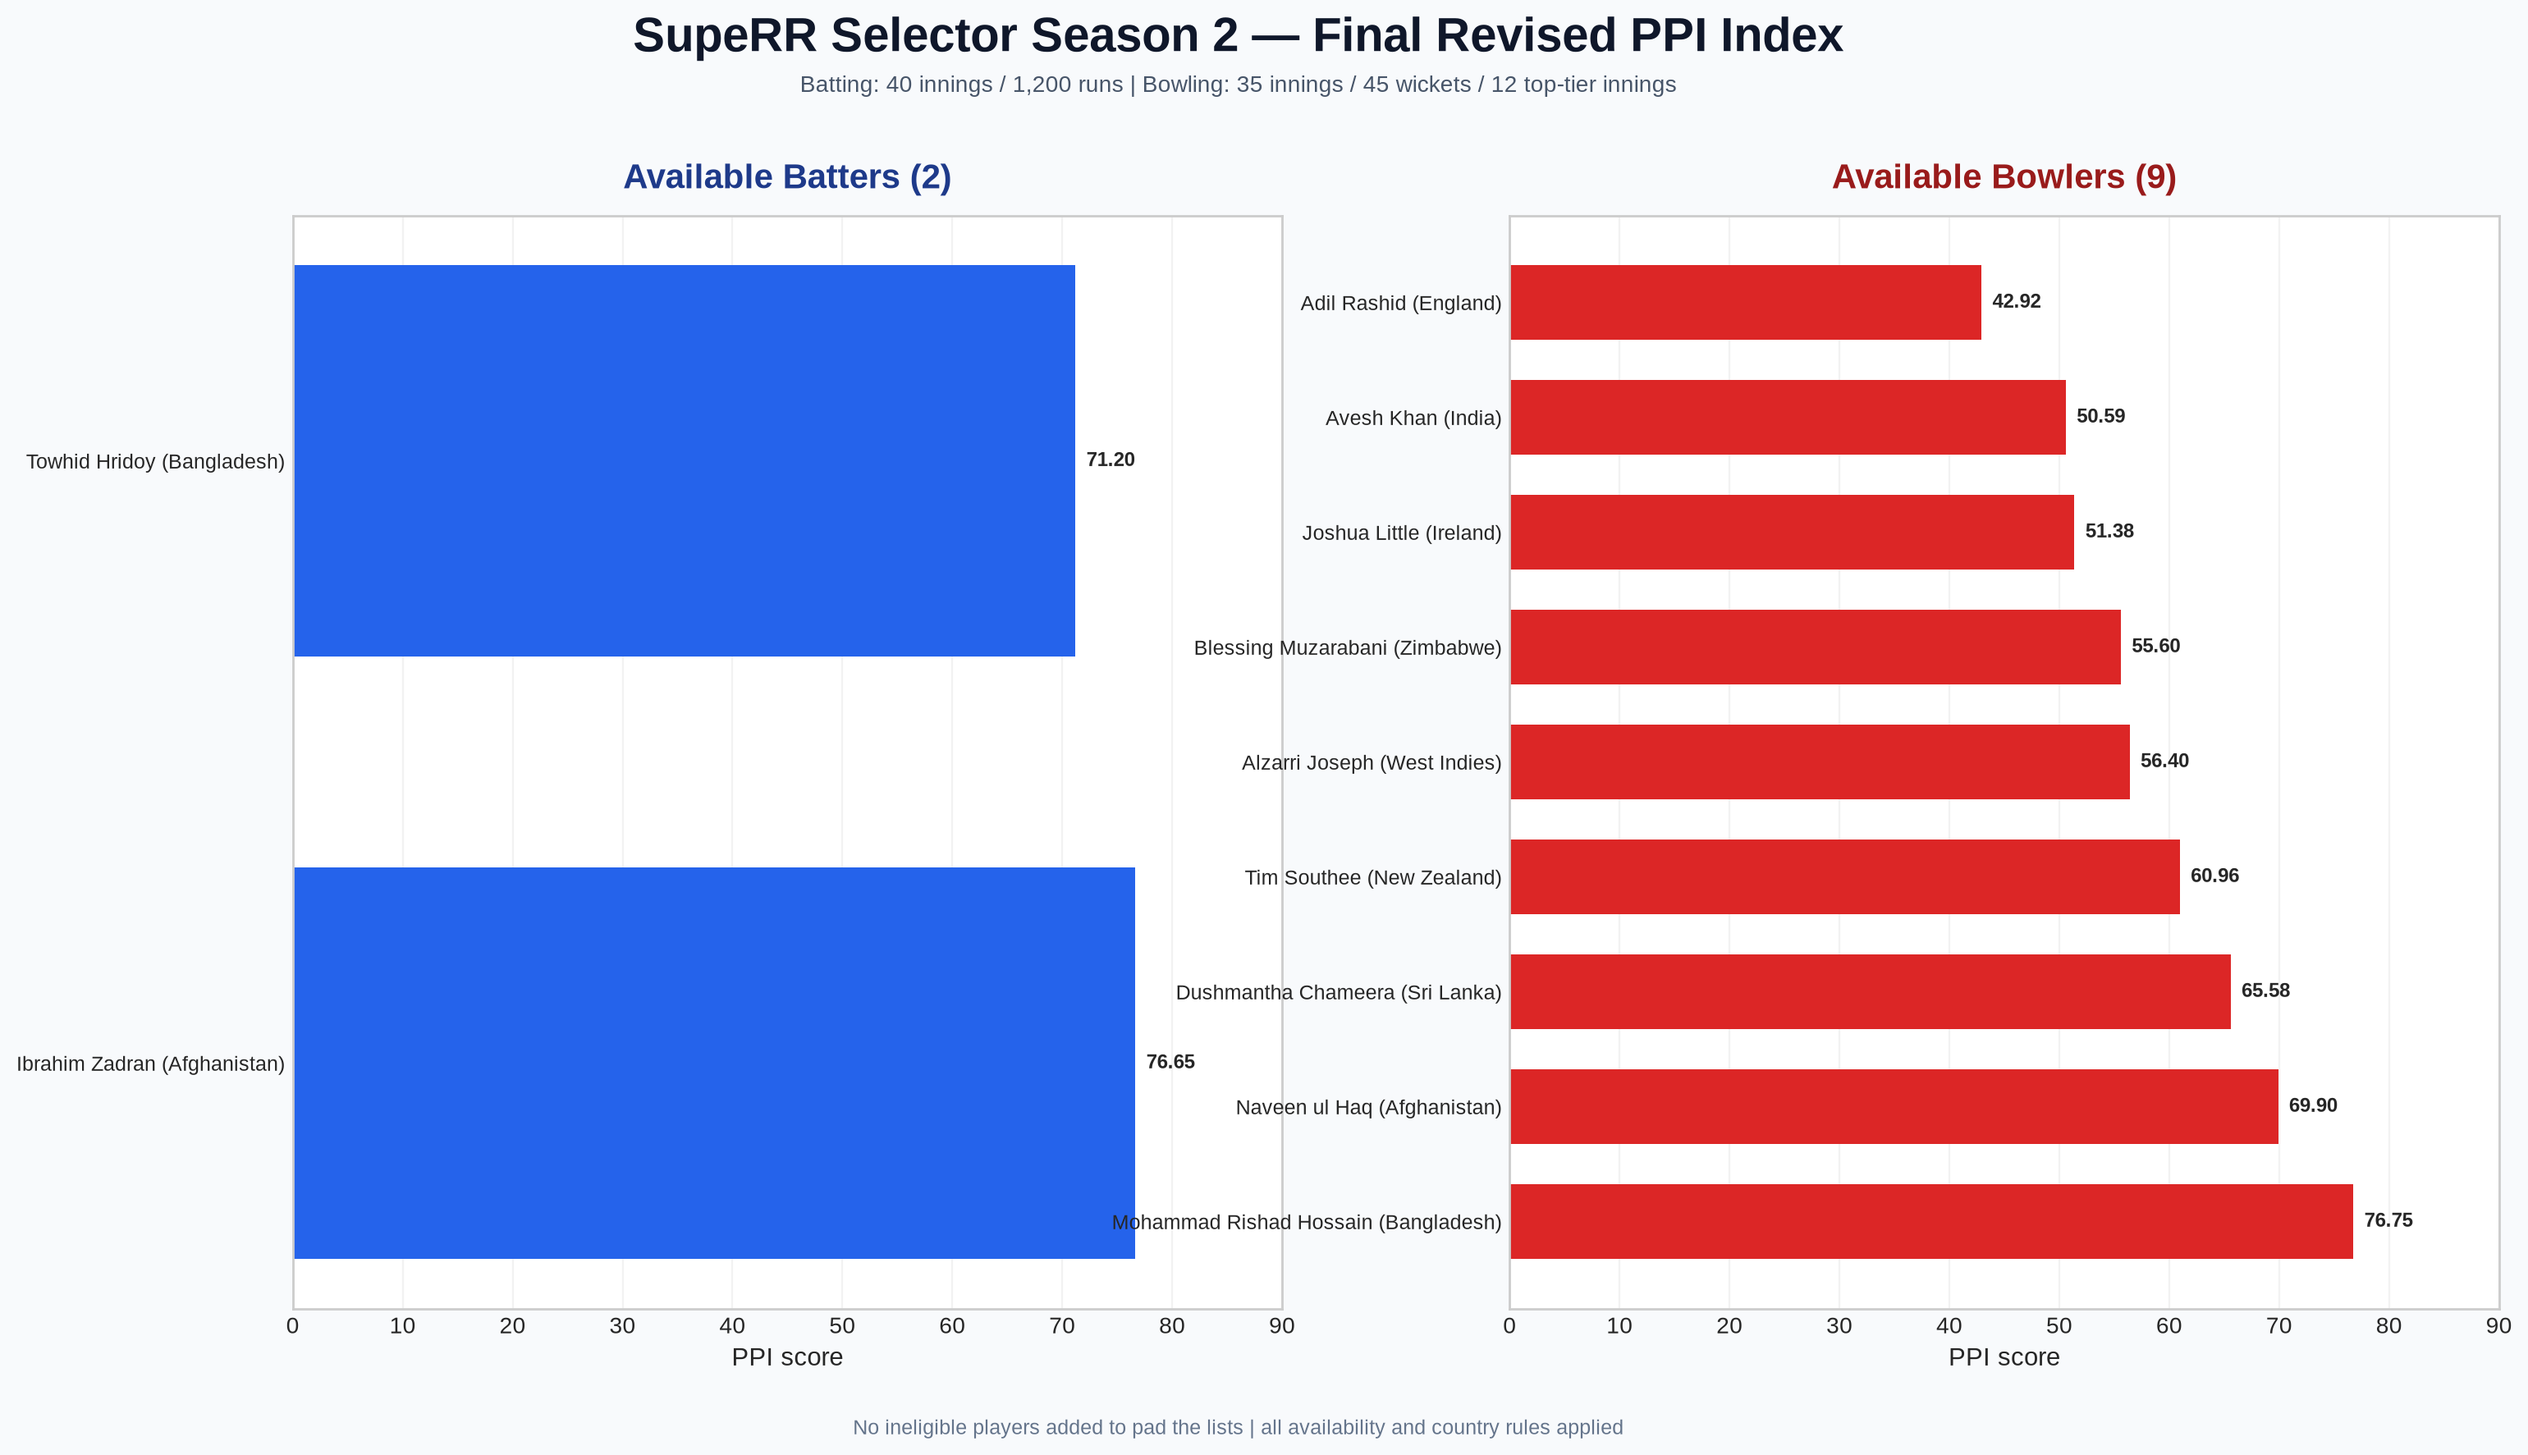
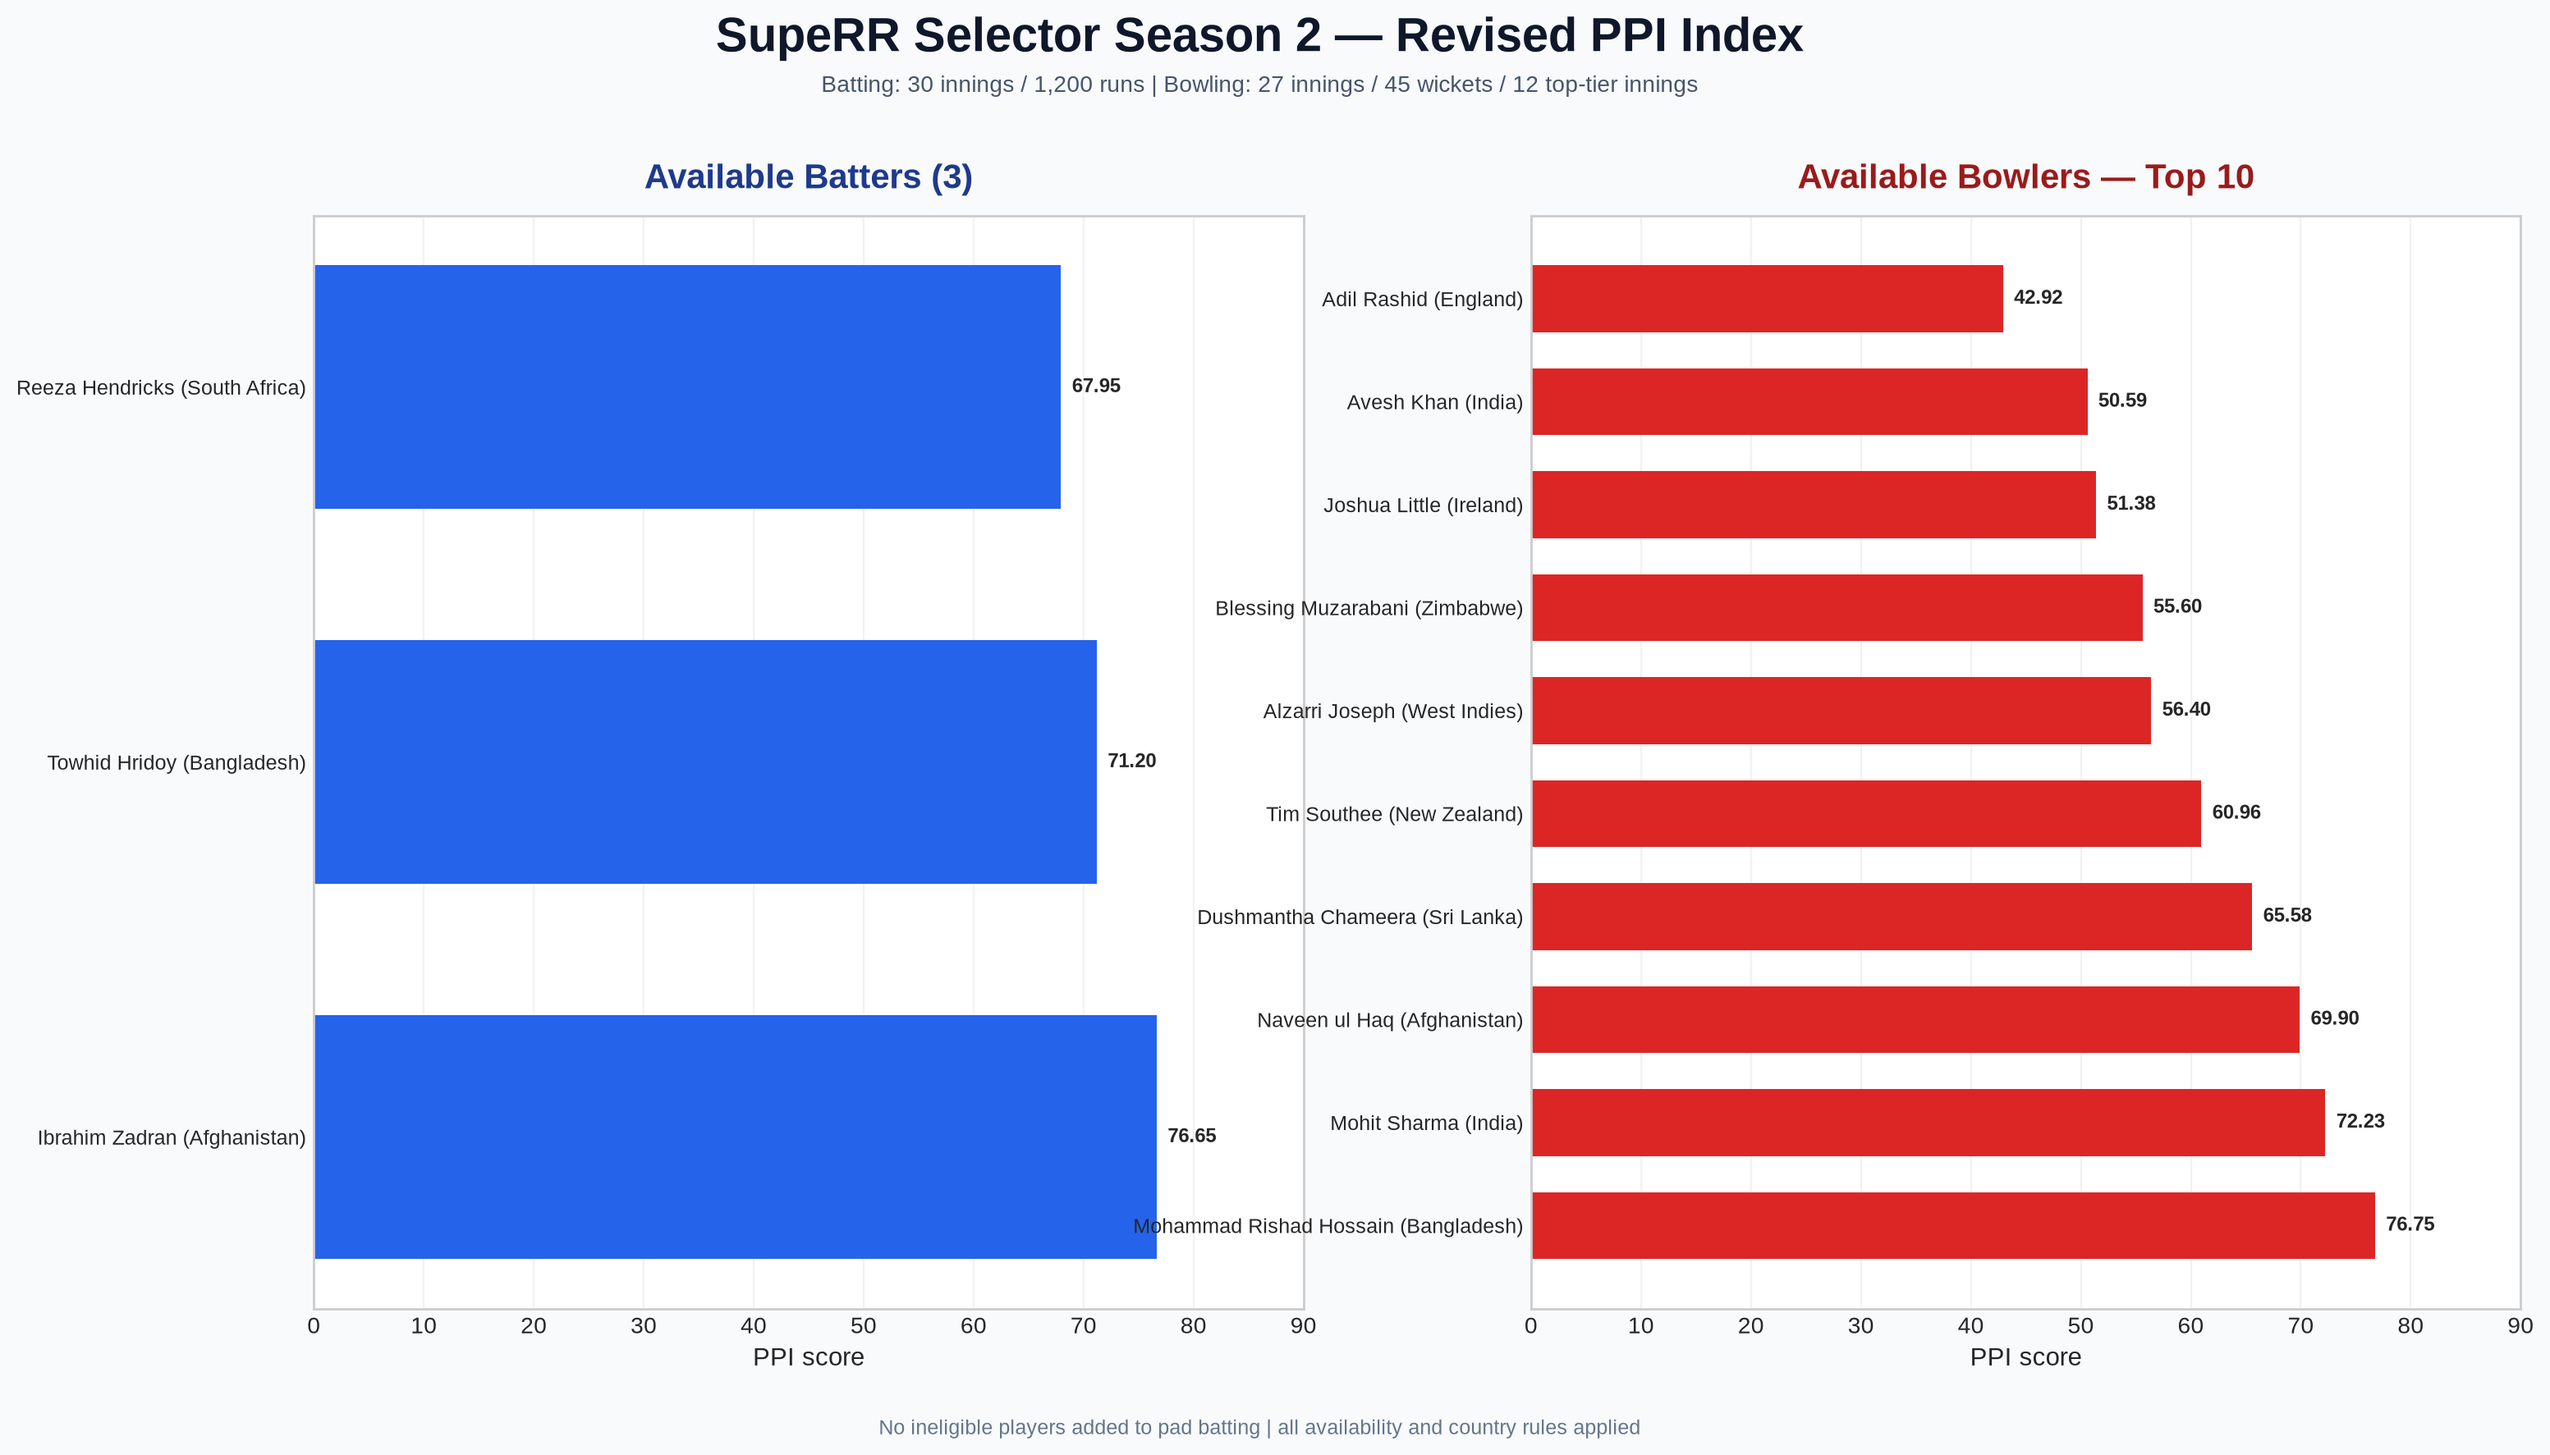
Lower PPI innings eligibility thresholds

diff --git a/scripts/post_retention_ppi.py b/scripts/post_retention_ppi.py
@@ -82,12 +82,12 @@ MANUAL_BOWLER_EXCLUSIONS = {
 
 POST_RETENTION_MIN_PRESSURE_BALLS = 5
 POST_RETENTION_MIN_PRESSURE_MATCHES = 1
-BAT_MIN_INNINGS = 40
+BAT_MIN_INNINGS = 30
 BAT_MIN_RUNS = 1200
 BAT_MIN_BALLS = 0
 BAT_MIN_STRIKE_RATE = 0
 BAT_MIN_TOP_TIER_INNINGS = 0
-BOWL_MIN_INNINGS = 35
+BOWL_MIN_INNINGS = 27
 BOWL_MIN_BALLS = 0
 BOWL_MIN_WICKETS = 45
 BOWL_MIN_TOP_TIER_INNINGS = 12
@@ -219,7 +219,7 @@ def build_eligibility(input_dir: Path, bat: pd.DataFrame, bowl: pd.DataFrame, ou
     bat_a["pass_top_tier"] = bat_a.top_tier_innings >= BAT_MIN_TOP_TIER_INNINGS
     bat_a["eligible_batting"] = bat_a[["pass_innings", "pass_runs"]].all(axis=1)
     bat_a["failed_batting_rules"] = bat_a.apply(lambda r: "; ".join([
-        "innings<40" if not r.pass_innings else "", "runs<1200" if not r.pass_runs else "",
+        "innings<30" if not r.pass_innings else "", "runs<1200" if not r.pass_runs else "",
         "top_tier_innings<15" if not r.pass_top_tier else ""]), axis=1).str.strip("; ").str.replace("; ;", ";", regex=False)
     bowl_a["pass_innings"] = bowl_a.total_innings_bowled >= BOWL_MIN_INNINGS
     bowl_a["pass_balls"] = bowl_a.total_balls_bowled >= BOWL_MIN_BALLS
@@ -227,7 +227,7 @@ def build_eligibility(input_dir: Path, bat: pd.DataFrame, bowl: pd.DataFrame, ou
     bowl_a["pass_top_tier"] = bowl_a.top_tier_innings >= BOWL_MIN_TOP_TIER_INNINGS
     bowl_a["eligible_bowling"] = bowl_a[["pass_innings", "pass_wickets", "pass_top_tier"]].all(axis=1)
     bowl_a["failed_bowling_rules"] = bowl_a.apply(lambda r: "; ".join([
-        "innings<35" if not r.pass_innings else "", "balls<660" if not r.pass_balls else "",
+        "innings<27" if not r.pass_innings else "", "balls<660" if not r.pass_balls else "",
         "wickets<45" if not r.pass_wickets else "", "top_tier_innings<12" if not r.pass_top_tier else ""]), axis=1).str.strip("; ").str.replace("; ;", ";", regex=False)
     output_dir.mkdir(parents=True, exist_ok=True)
     bat_a.to_csv(output_dir / "batting_eligibility_audit.csv", index=False)
@@ -276,7 +276,7 @@ def main() -> None:
         "Matthew Wade is also excluded because he is unlikely to play in the next IPL cycle.",
         "Mahendra Singh Dhoni is excluded as a CSK mentor, Rasikh Salam is excluded as retained by Royal Challengers Bengaluru, Namboori Tilak Varma is excluded as retained by Mumbai Indians, and Mitchell Starc is excluded because he opted out.",
         "",
-        "The same PPI formula is used. Batting eligibility requires exactly two filters: at least 40 innings and 1,200 runs. Bowling eligibility requires at least 35 innings, 45 wickets, and 12 top-tier innings; the 660-ball overs minimum has been removed. Each panel allows at most one player per non-India country and at most three Indian players; lower-exposure replacements are marked with lower confidence.",
+        "The same PPI formula is used. Batting eligibility requires exactly two filters: at least 30 innings and 1,200 runs. Bowling eligibility requires at least 27 innings, 45 wickets, and 12 top-tier innings; the 660-ball overs minimum has been removed. Each panel allows at most one player per non-India country and at most three Indian players; lower-exposure replacements are marked with lower confidence.",
         "",
         f"- Retained-player rows transcribed: {len(retention)}",
         f"- Expanded batting candidate pool before filter: {len(bat)}; removed: {len(bat_removed)}; available: {len(bat_avail)}",

diff --git a/outputs/post_retention/post_retention_ppi_index.md b/outputs/post_retention/post_retention_ppi_index.md
@@ -1,29 +1,27 @@
 # Post-retention PPI index
 
-**Status: Final revised filters applied.**
+**Status: Updated with revised innings thresholds.**
 
-## Batting filters
-- Minimum 40 innings
+## Active filters
+
+### Batting
+- Minimum 30 innings
 - Minimum 1,200 runs
 
-The strike-rate criterion, 800-balls-faced criterion, and batting top-tier-innings add-on have been removed.
-
-## Bowling filters
-- Minimum 35 bowling innings
+### Bowling
+- Minimum 27 bowling innings
 - Minimum 45 wickets
 - Minimum 12 IPL/T20I innings
 
-The 660 legal-ball/110-over minimum has been removed.
+The 800-ball, strike-rate, and batting top-tier add-ons are removed. The 660-ball/110-over bowling minimum is also removed.
 
 ## Final result
 
-- Available batters after all filters: **2**.
-- Available bowlers after all filters: **9**.
+- Available batters after all filters: **3**.
+- Available bowlers after all filters: **10**.
 - Tilak Varma is excluded as Mumbai Indians-retained.
 - Mitchell Starc is excluded because he opted out.
-- No ineligible player is added to force a top-10 list.
-
-An exact 10-batter and 10-bowler output is still not possible after the remaining statistical, availability, Pakistan, role, mentor, and country rules.
+- Country diversity, Pakistan, role, mentor, and all retention rules remain active.
 
 ## Available batters
 
@@ -31,19 +29,23 @@ An exact 10-batter and 10-bowler output is still not possible after the remainin
 |---:|---|---|---:|
 | 1 | Ibrahim Zadran | Afghanistan | 76.65 |
 | 2 | Towhid Hridoy | Bangladesh | 71.20 |
+| 3 | Reeza Hendricks | South Africa | 67.95 |
 
 ## Available bowlers
 
 | Rank | Player | Country | PPI |
 |---:|---|---|---:|
 | 1 | Mohammad Rishad Hossain | Bangladesh | 76.75 |
-| 2 | Naveen ul Haq | Afghanistan | 69.90 |
-| 3 | Dushmantha Chameera | Sri Lanka | 65.58 |
-| 4 | Tim Southee | New Zealand | 60.96 |
-| 5 | Alzarri Joseph | West Indies | 56.40 |
-| 6 | Blessing Muzarabani | Zimbabwe | 55.60 |
-| 7 | Joshua Little | Ireland | 51.38 |
-| 8 | Avesh Khan | India | 50.59 |
-| 9 | Adil Rashid | England | 42.92 |
+| 2 | Mohit Sharma | India | 72.23 |
+| 3 | Naveen ul Haq | Afghanistan | 69.90 |
+| 4 | Dushmantha Chameera | Sri Lanka | 65.58 |
+| 5 | Tim Southee | New Zealand | 60.96 |
+| 6 | Alzarri Joseph | West Indies | 56.40 |
+| 7 | Blessing Muzarabani | Zimbabwe | 55.60 |
+| 8 | Joshua Little | Ireland | 51.38 |
+| 9 | Avesh Khan | India | 50.59 |
+| 10 | Adil Rashid | England | 42.92 |
 
-Full individual eligibility results are in `batting_eligibility_audit.csv` and `bowling_eligibility_audit.csv`.
+The batting panel still has fewer than 10 eligible, available, country-compliant candidates, so it is not padded with ineligible players.
+
+Full pass/fail details are in `batting_eligibility_audit.csv` and `bowling_eligibility_audit.csv`.

diff --git a/outputs/post_retention/post_retention_notes.md b/outputs/post_retention/post_retention_notes.md
@@ -6,12 +6,12 @@ The subsequent manual update additionally removes Patrick Cummins and Nitish Red
 Matthew Wade is also excluded because he is unlikely to play in the next IPL cycle.
 Mahendra Singh Dhoni is excluded as a CSK mentor, Rasikh Salam is excluded as retained by Royal Challengers Bengaluru, Namboori Tilak Varma is excluded as retained by Mumbai Indians, and Mitchell Starc is excluded because he opted out.
 
-The same PPI formula is used. Batting eligibility requires exactly two filters: at least 40 innings and 1,200 runs. Bowling eligibility requires at least 35 innings, 45 wickets, and 12 top-tier innings; the 660-ball overs minimum has been removed. Each panel allows at most one player per non-India country and at most three Indian players; lower-exposure replacements are marked with lower confidence.
+The same PPI formula is used. Batting eligibility requires exactly two filters: at least 30 innings and 1,200 runs. Bowling eligibility requires at least 27 innings, 45 wickets, and 12 top-tier innings; the 660-ball overs minimum has been removed. Each panel allows at most one player per non-India country and at most three Indian players; lower-exposure replacements are marked with lower confidence.
 
 - Retained-player rows transcribed: 186
-- Expanded batting candidate pool before filter: 11; removed: 9; available: 2
-- Expanded bowling candidate pool before filter: 69; removed: 46; available: 9
-- Final output size: 2 eligible batters and 9 eligible bowlers. The batting list is not padded when fewer than 10 players satisfy every rule.
+- Expanded batting candidate pool before filter: 12; removed: 9; available: 3
+- Expanded bowling candidate pool before filter: 70; removed: 46; available: 10
+- Final output size: 3 eligible batters and 10 eligible bowlers. The batting list is not padded when fewer than 10 players satisfy every rule.
 - Eligibility audit files report every individual minimum and failed rule.
 
 ## Outputs
